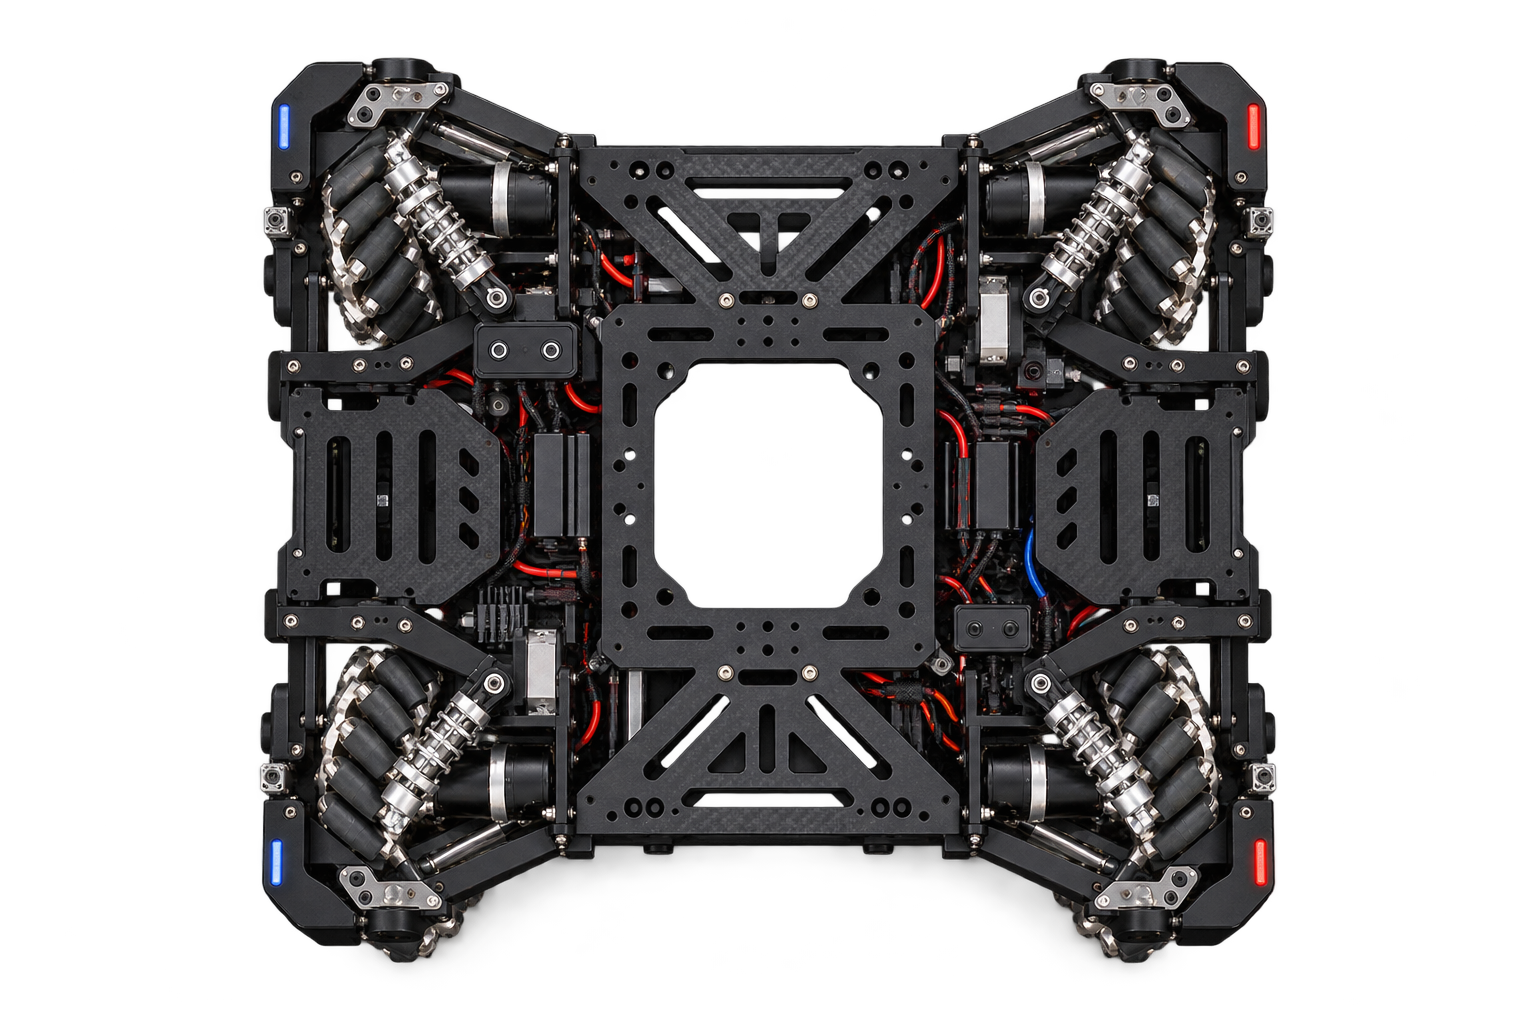
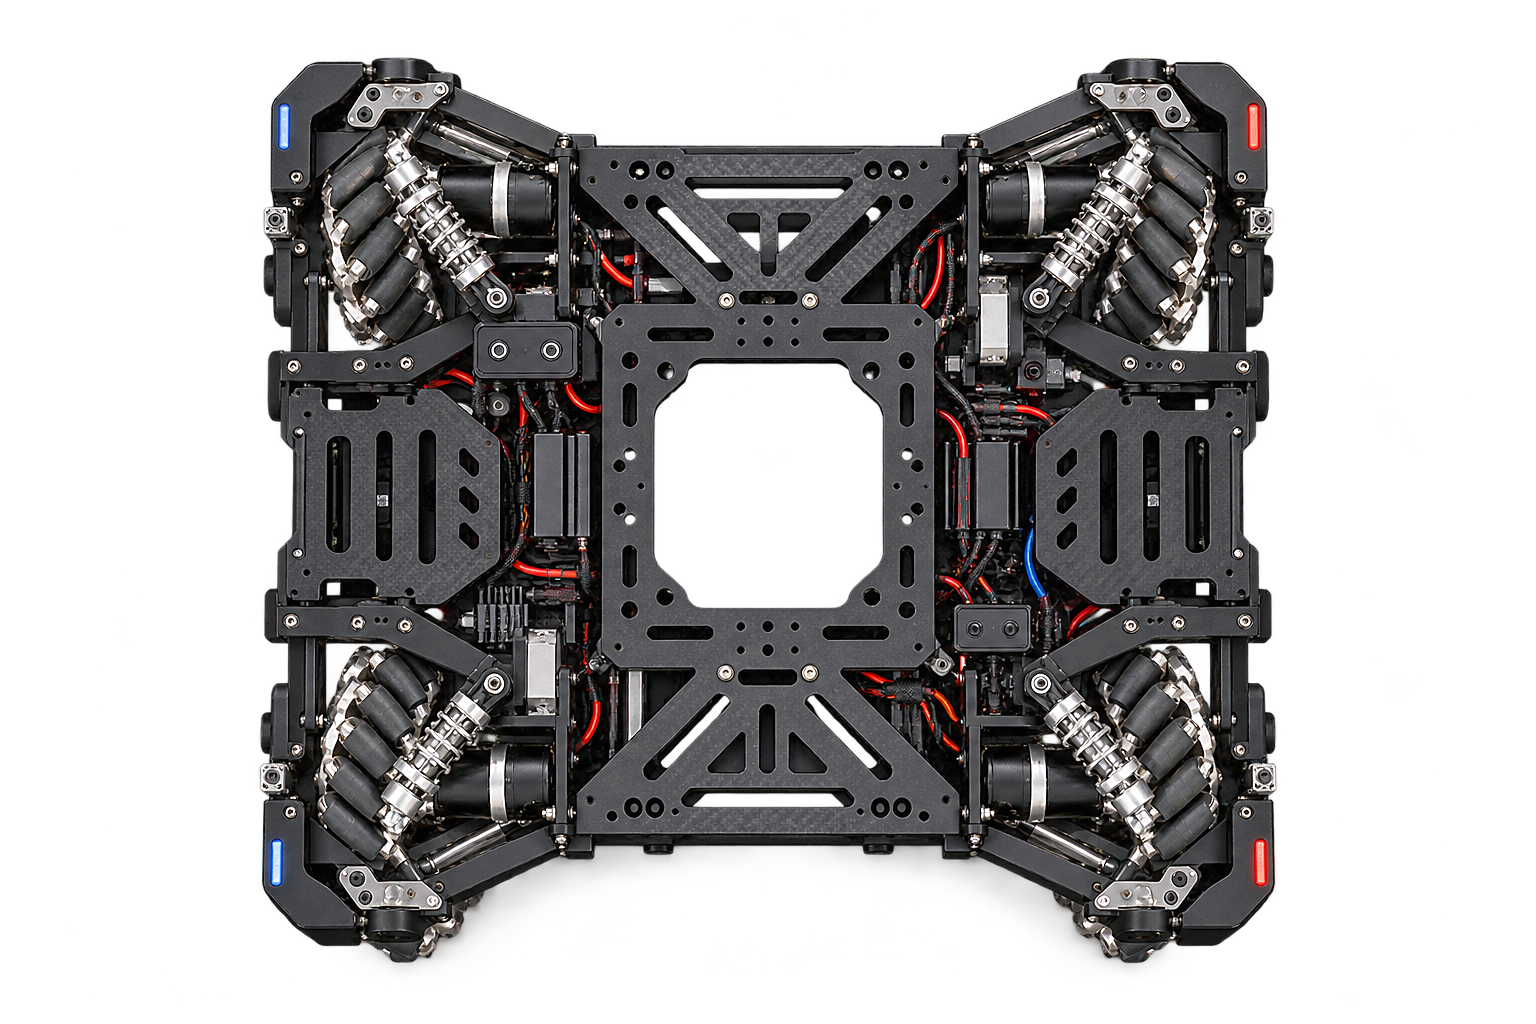
feat(rmuc): refine Hero sprite presentation and audit fidelity (#84)

diff --git a/tests/test_hero_visuals.py b/tests/test_hero_visuals.py
@@ -1,0 +1,55 @@
+"""Hero presentation tests: visual layers and asset transforms only."""
+import pygame
+import pytest
+
+from tarsgo_simulator.desktop import app
+from tarsgo_simulator.desktop.assets import AssetManager
+
+
+def test_hero_rotation_antialiasing_keeps_alpha_and_uses_transform_cache(
+    monkeypatch: pytest.MonkeyPatch,
+) -> None:
+    rotozoom = pygame.transform.rotozoom
+    calls = 0
+
+    def count(surface: pygame.Surface, angle: float, scale: float) -> pygame.Surface:
+        nonlocal calls
+        calls += 1
+        return rotozoom(surface, angle, scale)
+
+    monkeypatch.setattr(pygame.transform, "rotozoom", count)
+    manager = AssetManager(app.ASSET_MANAGER.asset_root)
+    first = manager.render("robots/hero-chassis.png", size=(180, 122), angle=37)
+    assert first is not None
+    assert first.get_flags() & pygame.SRCALPHA
+    assert first is manager.render("robots/hero-chassis.png", size=(180, 122), angle=37.4)
+    assert calls == 1
+
+    # Existing robot presentation remains on the original rendering path.
+    assert manager.render("robots/infantry-chassis.png", size=(120, 92), angle=37)
+    assert calls == 1
+
+
+def test_hero_layers_rotate_independently_and_dead_lights_are_off() -> None:
+    assert app._RMUC_ROBOT_SPRITE_SIZES["hero"][1][1] < app._RMUC_ROBOT_SPRITE_SIZES["hero"][0][1]
+
+    def frame(body: float, turret: float, color: tuple[int, int, int], lit: bool) -> bytes:
+        screen = pygame.Surface((480, 360), pygame.SRCALPHA)
+        assert app._draw_rmuc_robot_sprites(
+            screen,
+            center=(240, 180),
+            robot_type="hero",
+            color=color,
+            body_angle=body,
+            turret_angle=turret,
+            lit=lit,
+            magnification=3.6,
+        )
+        return pygame.image.tostring(screen, "RGBA")
+
+    initial = frame(0, 0, app.TEAM_RED_COLOR, True)
+    assert frame(0.5, 0, app.TEAM_RED_COLOR, True) != initial
+    assert frame(0, 0.5, app.TEAM_RED_COLOR, True) != initial
+    assert frame(0, 0, app.TEAM_RED_COLOR, False) != initial
+    assert frame(0, 0, app.TEAM_BLUE_COLOR, True) != initial
+    assert frame(0, 0, app.TEAM_RED_COLOR, True) == initial

diff --git a/tools/benchmark_rmuc_frame_pacing.py b/tools/benchmark_rmuc_frame_pacing.py
@@ -222,7 +222,7 @@ def _install_instrumentation(measurements: Measurements, frame_count: int, fps: 
     ASSET_MANAGER.render = timed_asset_render.__get__(ASSET_MANAGER, type(ASSET_MANAGER))
     restorers.append(lambda: setattr(ASSET_MANAGER, "render", original_render))
 
-    for name in ("rotate", "smoothscale"):
+    for name in ("rotate", "smoothscale", "rotozoom"):
         original = getattr(pygame.transform, name)
 
         def make_wrapper(transform_name, original_transform):
@@ -352,6 +352,15 @@ def main() -> None:
             "misses": measurements.cache_misses,
             "hit_rate": measurements.cache_hits / cache_total if cache_total else 0.0,
             "transform_calls": transform_calls,
+            "resident_bytes": sum(
+                surface.get_pitch() * surface.get_height()
+                for cache in (
+                    ASSET_MANAGER._source_cache,
+                    ASSET_MANAGER._prepared_cache,
+                    ASSET_MANAGER._transform_cache,
+                )
+                for surface in cache.values()
+            ),
         },
         "pathfinding_scheduler": pathfinding_counters,
         "movement_diagnostics": movement_counters,

diff --git a/src/tarsgo_simulator/desktop/assets.py b/src/tarsgo_simulator/desktop/assets.py
@@ -151,7 +151,11 @@ class AssetManager:
                 self._prepared_cache.move_to_end(prepared_key)
             rendered = prepared
         if normalized_angle:
-            rendered = pygame.transform.rotate(rendered, normalized_angle)
+            # The Hero's fine mechanical details need antialiased rotation at close-up.
+            if key in ("robots/hero-chassis.png", "robots/hero-turret.png"):
+                rendered = pygame.transform.rotozoom(rendered, normalized_angle, 1.0)
+            else:
+                rendered = pygame.transform.rotate(rendered, normalized_angle)
         if normalized_tint is not None:
             # Multiplication tints only RGB and keeps the source alpha channel.
             strength = 0.30

diff --git a/src/tarsgo_simulator/desktop/app.py b/src/tarsgo_simulator/desktop/app.py
@@ -3575,7 +3575,7 @@ _RMUC_ROBOT_SPRITE_PARTS = {
     "drone": ("drone.png",),
 }
 _RMUC_ROBOT_SPRITE_SIZES = {
-    "hero": ((50, 34), (66, 38)),
+    "hero": ((50, 34), (58, 29)),
     "engineer": ((70, 36),),
     "infantry": ((34, 26), (42, 28)),
     "sentry": ((58, 38), (68, 40)),

diff --git a/docs/pr84-hero-visual-audit.md b/docs/pr84-hero-visual-audit.md
@@ -1,0 +1,70 @@
+# PR #84 — Hero 视觉精度审计与试制
+
+基线：`main fdb79dfcc50e372af0ec1d524156f0638961760e`（2026-10-08）。本轮仅调整 Hero 的表现层素材/渲染，未改规则、AI、地图、HP、碰撞、世界尺寸或 #83 镜头。
+
+## 素材审计
+
+`assets/rmuc/robots` 全部八张 PNG 均具有 RGBA 透明通道。以下按原图尺寸统计，`非透明` 是 alpha>0 的画布像素比例，`实质` 是 alpha>=128 的比例；边框为 alpha>0 的包围盒：
+
+| 素材 | 尺寸 | 非透明 | 实质 | 有效像素包围盒 |
+|---|---:|---:|---:|---|
+| drone | 1254×1254 | 62.0% | 30.7% | (0,0)–(1248,1254) |
+| engineer | 1536×1024 | 37.5% | 36.0% | (0,35)–(1468,1024) |
+| hero-chassis | 1536×1024 | 49.4% | 45.3% | (65,8)–(1480,1005) |
+| hero-turret | 1662×946 | 38.7% | 37.2% | (0,32)–(1642,946) |
+| infantry-chassis | 1430×1100 | 49.6% | 47.6% | (105,3)–(1400,1090) |
+| infantry-turret | 1536×1024 | 32.1% | 30.6% | (65,8)–(1522,1024) |
+| sentry-chassis | 1536×1024 | 48.2% | 39.5% | (0,10)–(1522,1024) |
+| sentry-turret | 1635×962 | 29.9% | 28.7% | (337,37)–(1632,920) |
+
+结构对照参考：[广东工业大学 DynamicX 的 RM2022 Hero 机械开源资料](https://bbs.robomaster.com/article/9116)（仅用于理解真实轮组、开放框架和云台的机械关系，未使用其图片像素、纹理或模型）。
+
+各 Hero 图层的包围盒中心距画布中心均不足原生 20 px（默认渲染尺度约 0.7 px），并非主要错位根因。尺寸 1536/1662 px 不缺采样密度，原图已包含框架、加工板、电机、线束、云台和发射机构；但具体麦克纳姆轮滚子在当前俯视素材中仍难与其他轮组明确区分，不应声称达到 CAD 级还原。
+
+### 问题归因
+
+- **原始素材缺细节**：不是主要问题；但部分轮组形态准确性尚不能仅凭插画证实。
+- **细节过密**：是。底盘从 1536×1024 缩到全场 50×34，线性采样降低约 30 倍，微小孔位、螺钉、轮部滚子无法逐项分辨；最大 3.6 倍也仅 180×122。
+- **缩放导致损失**：`AssetManager` 已从原图 `smoothscale` 到显示尺寸，并为同尺寸缓存。不存在先小后大的放大链路；常规 LANCZOS 等抗锯齿也不能找回小尺寸丢失的结构。
+- **旋转/透明边距**：原来缩放后调用普通 `pygame.transform.rotate`，斜向轮组边缘存在锯齿；Hero 用过滤旋转能改善轮廓。Hero 两图层的透明边距并不构成严重偏移。
+- **图层遮挡**：原云台显示 66×38，超过底盘 50×34，遮住大量轮组。3.6 倍、0° 透明像素遮挡测量中底盘可见比例约 28.36%。
+- **镜头倍率**：3.6 倍上限仍无法让 1–2 px 的结构达到可辨水平。本轮不修改 #83 镜头。
+
+## Hero 试制改动
+
+1. 复用原 V2 PNG，基于原素材做轻度 gamma=0.83 和原生分辨率非锐化遮罩（radius 1.65、percent 62、threshold 4），透明通道及尺寸不变。没有复制外部受版权约束的照片或引入新素材。
+2. 云台显示尺寸从 **66×38** 调整为 **58×29**；底盘保持 **50×34**。相同 3.6 倍截图条件下，底盘露出比例约 **44.18%**，轮组可辨认区域增多。42 mm 炮管仍突出底盘。
+3. 仅 Hero 的两张图层采用 `pygame.transform.rotozoom(..., 1.0)` 进行过滤旋转，继续沿用原角度量化与变换缓存；其他机器人与素材加载/回退逻辑不变。
+4. LED 仍由游戏对红蓝队伍分别叠加；死亡时不绘制 LED；复活状态继续调用原动画逻辑。世界坐标与真实碰撞不依赖上述呈现尺寸。
+
+## 视觉证据
+
+全部截图使用真实 Pygame `app._draw` 或同一生产代码路径 `_draw_rmuc_robot_shape` 绘制。同一比赛配置、Hero 世界位置、朝向、色彩及镜头参数，前后成对比较；不是 AI 宣传图。
+
+- [原始 Hero 图层和 alpha 有效像素框](previews/pr84/hero-source-bounds.png)
+- [全场、普通局部、最大放大及近景：前后汇总图](previews/pr84/hero-before-after.png)
+- 全场：[之前](previews/pr84/full-before.png) / [之后](previews/pr84/full-after.png)
+- 局部（2.6x）：[之前](previews/pr84/local-before.png) / [之后](previews/pr84/local-after.png)
+- 最大（3.6x）：[之前](previews/pr84/max-before.png) / [之后](previews/pr84/max-after.png)
+- Hero 独立旋转及 42 mm 发射口火光/弹丸：[GIF](previews/pr84/hero-independent-rotation-fire.gif)
+- 阵营和状态：[红方](previews/pr84/hero-red-after.png) / [蓝方](previews/pr84/hero-blue-after.png) / [阵亡](previews/pr84/hero-dead-after.png) / [复活](previews/pr84/hero-respawn-after.png) / [开火](previews/pr84/hero-firing-after.png)
+
+## 测试、性能、限制
+
+专项测试核对：RGBA、Hero 过滤旋转缓存、独立旋转、队伍灯光开关及关闭后重新点亮；既有测试覆盖缺失素材回退、世界物理参数不变和桌面资源打包路径。
+
+运行条件：macOS / Pygame 2.6.1 / SDL dummy，`1100×780`、`60 Hz`、`3600 frames`（去掉最初 120 帧）。这是相同环境下的游戏渲染基准，不是实体显示器上的 FPS 结论。
+
+| 指标 | 修改前 | 试制首次 | 完整统计复测 |
+|---|---:|---:|---:|
+| frame interval p95/p99 | 19/19 ms | 19/19 ms | 19/19 ms |
+| frame work p95/p99 | 11/15 ms | 10/14 ms | 10/14 ms |
+| render p95/p99 | 3.93/4.56 ms | 3.84/4.21 ms | 3.90/4.30 ms |
+| 超过 33 ms | 0 | **1** | 0 |
+| 资源变换命中 | 95,417 / 96,132（99.26%） | 95,362 / 96,079（99.25%） | 95,397 / 96,111（99.26%） |
+| 资源变换次数 | 715 | 原工具漏记 rotozoom | 714（含 165 次 rotozoom） |
+| 缓存驻留内存 | 旧工具未记录 | 77,358,780 bytes | 77,310,928 bytes（约 73.7 MiB） |
+
+第一次试制测试出现 1 次 >33ms 帧间隔尖峰（37ms），完整统计复测未复现；不能将其无依据地归因于素材变更，也不得从验收数据中删除。主分位数未出现持续回退。缓存内存是 `AssetManager` 三组 resident surface 的 `pitch × height` 估算值，不包含 Python 字典及 SDL 其他缓存开销。
+
+**验收边界**：这一试制提高了轮组露出比例与旋转清晰度，但不可能在 50×34 的全场尺寸里显示原图的微细机械结构。请按上面的真实截图和 GIF 判断视觉改善是否足够；未经人工确认不合并。

diff --git a/assets/rmuc/robots/README.md b/assets/rmuc/robots/README.md
@@ -37,6 +37,18 @@ lift and manipulator, Infantry's compact four-mecanum frame, Sentry's
 autonomous gimbal, and the Drone's four large mesh rotor guards. Text, team
 numbers and logos are omitted from generated sprites.
 
+## PR #84 Hero detail trial (2026-10-08)
+
+The two Hero PNGs are **derived from the existing V2 originals** in commit
+`fdb79dfcc50e372af0ec1d524156f0638961760e`; no third-party photos, new
+AI illustrations, or externally sourced geometry were added. The pixel-level
+trial preserves native size, transparent alpha, and layer registration, using
+a mild per-channel gamma adjustment (0.83) and native-resolution unsharp mask
+(radius 1.65, 62%, threshold 4). Source authorship and MIT permission remain
+unchanged. The presentation-only gimbal footprint was reduced to uncover the
+wheel modules, and its display rotation uses Pygame's filtered `rotozoom`.
+See `docs/pr84-hero-visual-audit.md` for reproducible comparison evidence.
+
 Sprite dimensions and pixel bounds are presentation data only. The renderer
 scales them using desktop visual profiles; collision footprints, navigation,
 AI, official millimeter geometry, and rules do not read these files. If any
